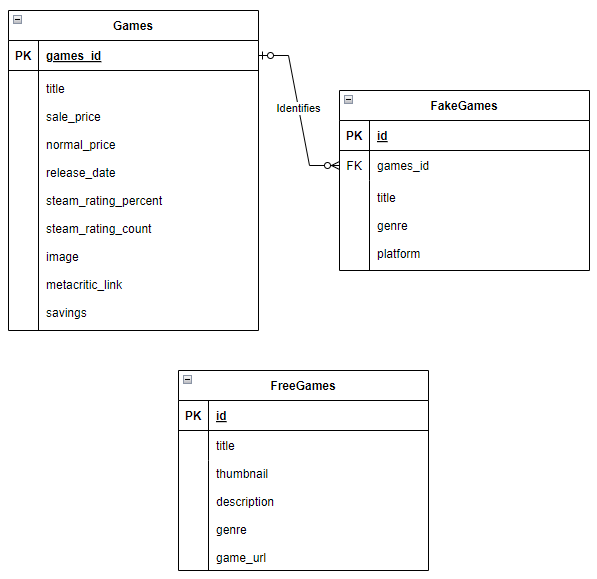
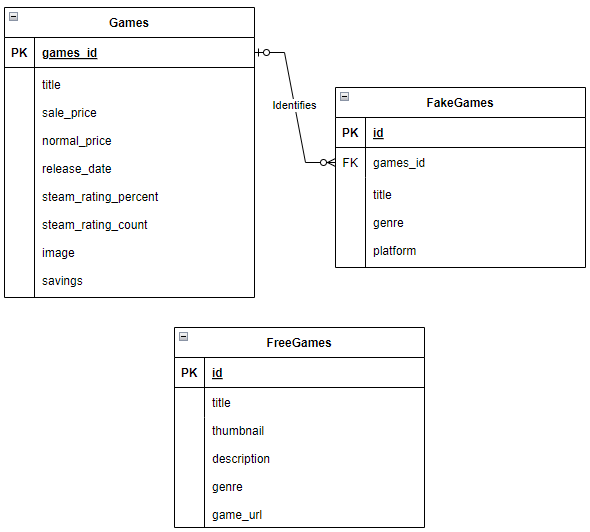
Removed metacritic_link from Games.

Changed region(s): [[0.0, 0.0, 1.0, 0.5714], [0.2746, 0.6015, 0.7322, 0.9925]]

diff --git a/db/schema.rb b/db/schema.rb
@@ -10,7 +10,7 @@
 #
 # It's strongly recommended that you check this file into your version control system.
 
-ActiveRecord::Schema[7.0].define(version: 2023_02_28_205540) do
+ActiveRecord::Schema[7.0].define(version: 2023_03_02_195405) do
   create_table "fake_games", force: :cascade do |t|
     t.string "title"
     t.string "genre"
@@ -41,7 +41,6 @@ ActiveRecord::Schema[7.0].define(version: 2023_02_28_205540) do
     t.string "image"
     t.datetime "created_at", null: false
     t.datetime "updated_at", null: false
-    t.string "metacritic_link"
     t.decimal "savings"
     t.integer "games_id"
   end

diff --git a/config/routes.rb b/config/routes.rb
@@ -1,16 +1,12 @@
 Rails.application.routes.draw do
   get 'search', to: 'search#index'
   get 'free_games/free_games'
-  #get 'free_game/free_games'
   resources :fake_games
   resources :games
   resources :free_games
-  # Define your application routes per the DSL in https://guides.rubyonrails.org/routing.html
   root 'games#index'
   get 'game_sales', to: 'games#game_sales'
   get 'faker_games', to: 'fake_games#faker_games'
   get 'free_games', to: 'free_games#free_games'
   get 'free_games/:id', to: 'free_games#show'
-  # Defines the root path route ("/")
-  # root "articles#index"
 end

diff --git a/db/migrate/20230302195405_remove_metacritic_link_from_games.rb b/db/migrate/20230302195405_remove_metacritic_link_from_games.rb
@@ -1,0 +1,5 @@
+class RemoveMetacriticLinkFromGames < ActiveRecord::Migration[7.0]
+  def change
+    remove_column :games, :metacritic_link
+  end
+end
